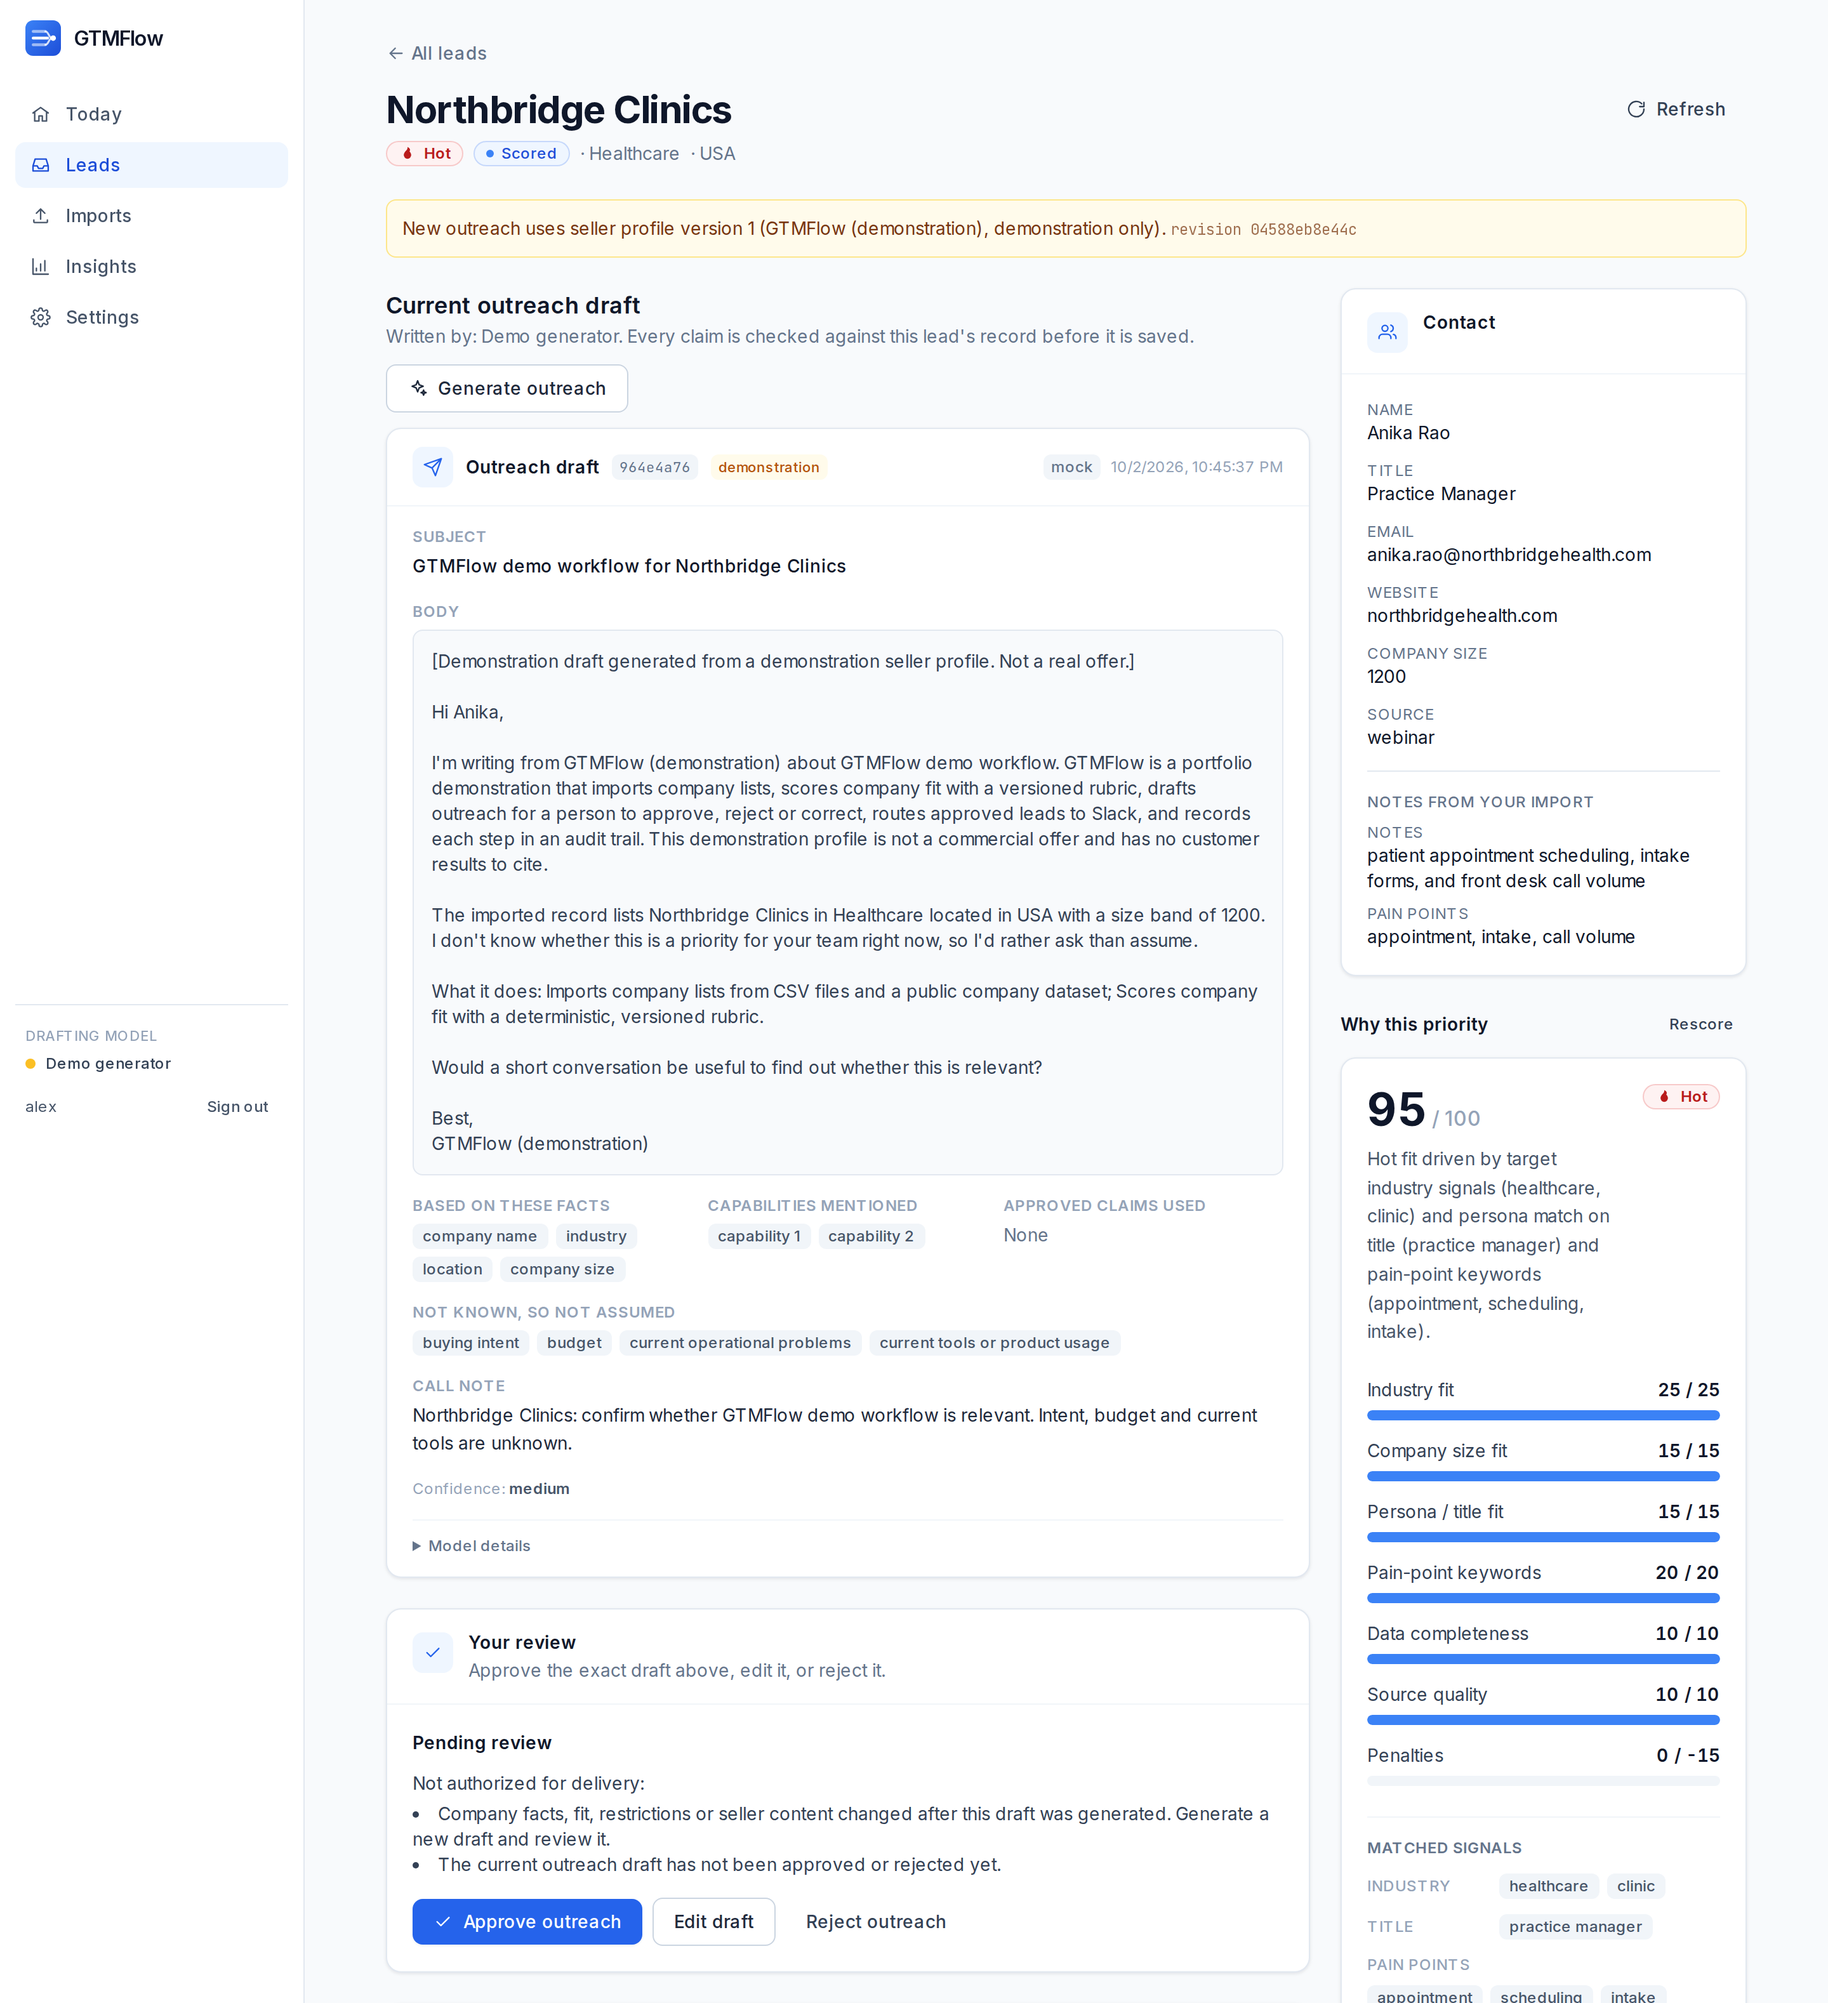
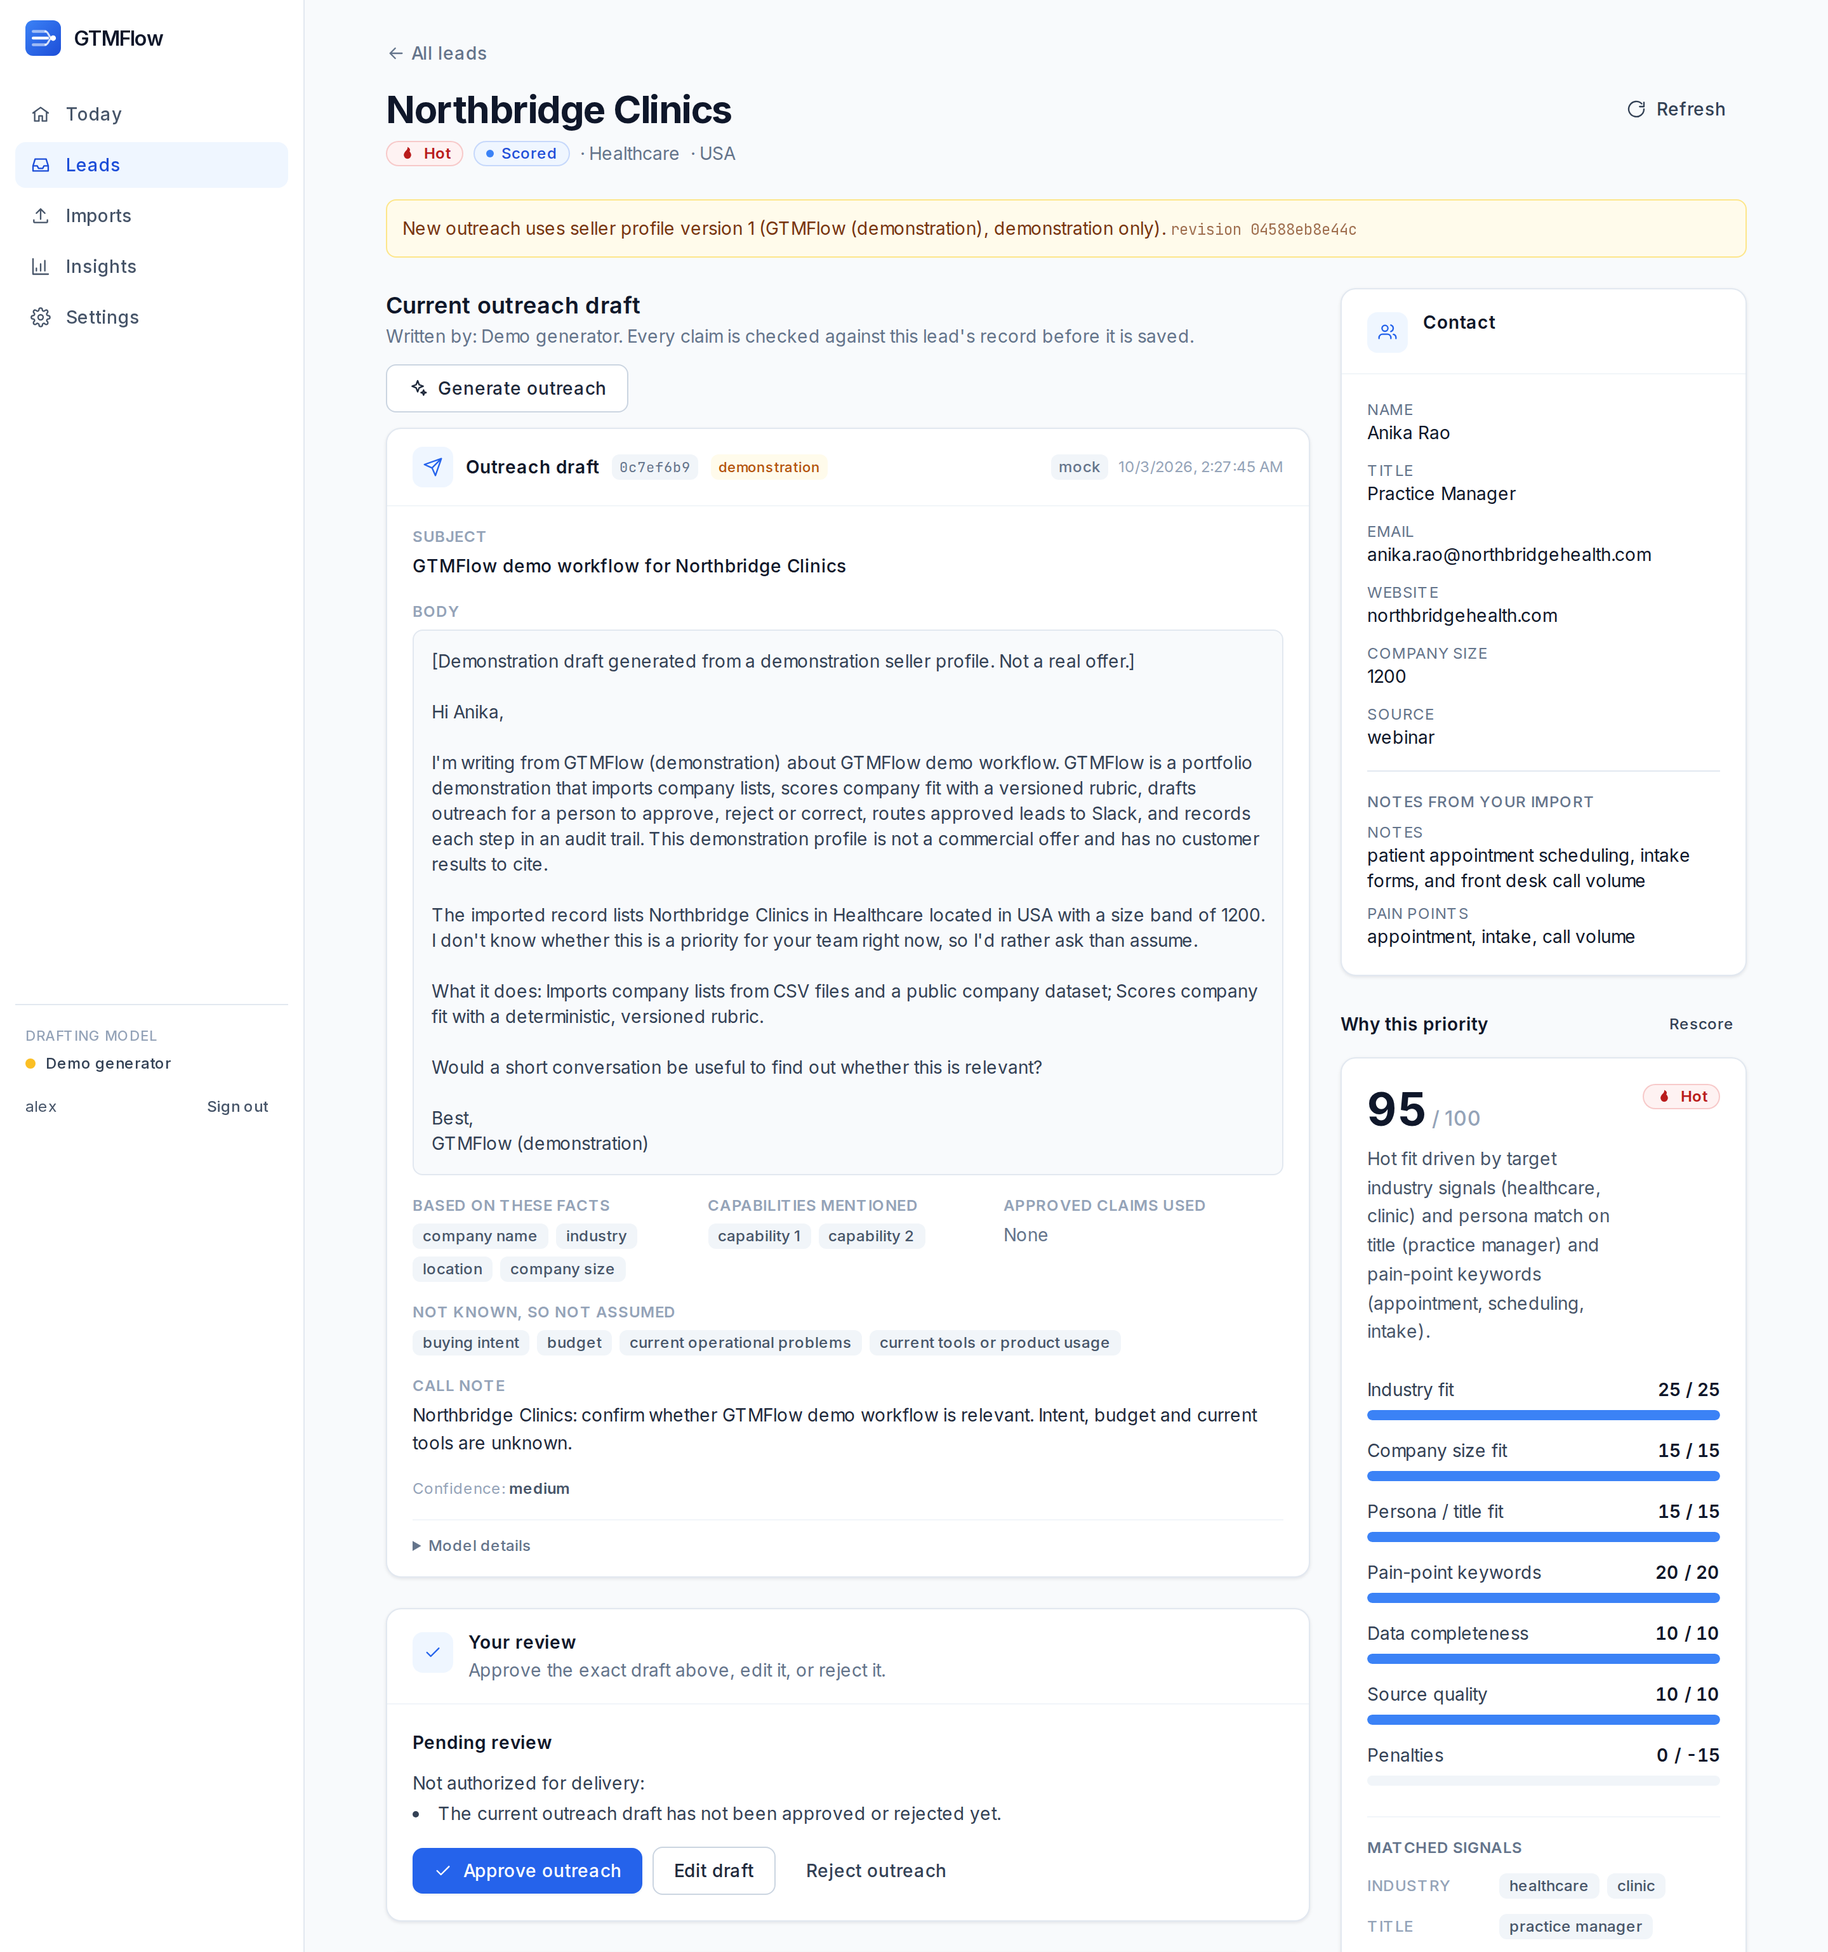
Retake README screenshots of the redesigned app; update results and engineering log

diff --git a/README.md b/README.md
@@ -31,8 +31,8 @@ PyTorch + PEFT for the model work · Slack incoming webhooks.
 until the fine-tuned model's server is connected. It is not deployed; see [Local setup](#local-setup).
 
 <p align="center">
-  <a href="docs/screenshots/home.png">
-    <img src="docs/screenshots/home.png" alt="GTMFlow home page with the headline &quot;Stop hand-sorting leads. Let GTMFlow do the first pass.&quot; and buttons to run the live demo or upload a lead list" width="100%">
+  <a href="docs/screenshots/today.png">
+    <img src="docs/screenshots/today.png" alt="Today page greeting the rep with counts of drafts to review, leads ready to send, hot leads without a draft and leads sent, a Next up list ranked Hot first, and the drafting-model status" width="100%">
   </a>
 </p>
 
@@ -400,73 +400,74 @@ Only mechanisms present in the code are listed here.
 
 ## Screenshots
 
-Captured from the running application (production build, mock mode, isolated PostgreSQL) at a
-1440 px viewport after running the built-in demo. Click any image for full resolution.
+Captured from the running application (production build, isolated PostgreSQL, Slack mocked, no model
+server connected, so drafts come from the labeled demo generator) at a 1440 px viewport. Click any
+image for full resolution.
 
-### Lead workspace: scoring
+### Today
 
-The 100-point priority score with its breakdown and matched signals, and the company-fit score,
-which reports *insufficient evidence* when a CSV lacks structured fields instead of guessing.
+What needs the rep's attention: drafts to review, approved leads ready to send, Hot leads without a
+draft, and the drafting model's status. It is shown at the top of this README.
+
+### Leads
+
+Every lead from every import, ranked Hot first, with stage tabs, search and a priority filter. A
+lead is only "Ready to send" when its approval still authorizes delivery.
 
 <p align="center">
-  <a href="docs/screenshots/lead-scoring.png">
-    <img src="docs/screenshots/lead-scoring.png" alt="Lead workspace for Cascade Modular Homes showing a 94 of 100 Hot priority score with a per-category breakdown, matched signals, and a company-fit table" width="100%">
+  <a href="docs/screenshots/leads.png">
+    <img src="docs/screenshots/leads.png" alt="Leads inbox with stage tabs and counts, a search box, a priority filter, and a table of ten companies with priority, stage, drafting model and import" width="100%">
   </a>
 </p>
 
-### Lead workspace: readiness, review and the grounded draft
+### Lead workspace: the draft and the review
 
-The approval applies to this exact draft. The draft cites record facts and seller capabilities by
-id, and lists what is not known from the data. A demonstration seller profile can never make an
-email "ready", only an internal Slack handoff.
+The draft says which model wrote it, lists the facts it is based on and what is not known, and keeps
+provenance under "Model details". The review applies to this exact draft.
 
 <p align="center">
   <a href="docs/screenshots/lead-review.png">
-    <img src="docs/screenshots/lead-review.png" alt="Readiness panel, an approved review bound to a content hash, and an outreach draft with cited fact ids, seller capability ids and stated unknowns" width="100%">
+    <img src="docs/screenshots/lead-review.png" alt="Lead workspace for Northbridge Clinics with an outreach draft, the facts it is based on, the unknowns it does not assume, and a pending review with approve, edit and reject actions beside the contact card and priority breakdown" width="100%">
   </a>
 </p>
 
-### Slack delivery
+### Sending to Slack
 
 <p align="center">
-  <a href="docs/screenshots/push-history.png">
-    <img src="docs/screenshots/push-history.png" alt="Push history showing a mock Slack delivery with the Hot lead message, attempt number and mock-success status" width="100%">
+  <a href="docs/screenshots/lead-send.png">
+    <img src="docs/screenshots/lead-send.png" alt="An approved review that applies to the exact draft, the Send to Slack card, and a push history entry showing a mock Slack delivery" width="100%">
   </a>
 </p>
 
-### Batch detail
+### Imports and an import's detail
 
 <p align="center">
-  <a href="docs/screenshots/batch-detail.png">
-    <img src="docs/screenshots/batch-detail.png" alt="Batch detail with background job controls, the company-fit summary and a table of ten leads with priority, fit, routing and readiness columns" width="100%">
+  <a href="docs/screenshots/imports.png">
+    <img src="docs/screenshots/imports.png" alt="Imports page with a CSV drop zone, an optional name, a Try with sample data card, and a list of past imports" width="100%">
   </a>
 </p>
 
-### Background jobs
-
 <p align="center">
-  <a href="docs/screenshots/background-jobs.png">
-    <img src="docs/screenshots/background-jobs.png" alt="Background jobs panel with completed summary, fit-score and legacy-score jobs, each 10 of 10" width="100%">
+  <a href="docs/screenshots/import-detail.png">
+    <img src="docs/screenshots/import-detail.png" alt="One import with rescore and send-approved-Hot-leads actions, background job controls with a completed fit-score job, and a lead table with status, score and priority" width="100%">
   </a>
 </p>
 
-### Metrics
+### Insights
 
 <p align="center">
-  <a href="docs/screenshots/metrics.png">
-    <img src="docs/screenshots/metrics.png" alt="Metrics dashboard with a mock-data banner, pipeline funnel, priority split, quality rates, estimated time saved and a mock-versus-real breakdown" width="100%">
+  <a href="docs/screenshots/insights.png">
+    <img src="docs/screenshots/insights.png" alt="Insights dashboard with a mock-data banner, pipeline funnel, priority split, quality rates, estimated time saved and a mock-versus-real breakdown" width="100%">
   </a>
 </p>
 
 ### More pages
 
-| Sign in | Upload |
+| Sign in | Email verification |
 |---|---|
-| [![Sign-in form with create-account and continue-as-guest options](docs/screenshots/login.png)](docs/screenshots/login.png) | [![CSV upload form](docs/screenshots/upload.png)](docs/screenshots/upload.png) |
-| **Batches** | **Guided demo** |
-| [![Batches list](docs/screenshots/batches.png)](docs/screenshots/batches.png) | [![One-click demo page](docs/screenshots/demo.png)](docs/screenshots/demo.png) |
-| **Email verification** | **Seller profile** |
-| [![Check-your-email step with a 6-digit code field and a resend countdown](docs/screenshots/verify-email.png)](docs/screenshots/verify-email.png) | [![Seller profile editor with an active demonstration profile](docs/screenshots/seller-profile.png)](docs/screenshots/seller-profile.png) |
+| [![Sign-in form with create-account and continue-as-guest options](docs/screenshots/login.png)](docs/screenshots/login.png) | [![Check-your-email step with a 6-digit code field and a resend countdown](docs/screenshots/verify-email.png)](docs/screenshots/verify-email.png) |
+| **Settings** | |
+| [![Settings with the drafting model status, the fine-tuned model and adapter, what you sell, and the account](docs/screenshots/settings.png)](docs/screenshots/settings.png) | |
 
 ## Testing strategy
 
@@ -481,8 +482,8 @@ email "ready", only an internal Slack handoff.
 Tests block outbound network calls. Key safety tests were mutation-checked: the safeguard was
 removed and the test had to fail.
 
-Latest verified results (2026-10-02, local): **545 backend tests on PostgreSQL** (540 passed and 5
-skipped on SQLite), **112 frontend tests**, **96 of 96 release checks**, and a clean typecheck and
+Latest verified results (2026-10-03, local): **560 backend tests on PostgreSQL** (555 passed and 5
+skipped on SQLite), **109 frontend tests**, **96 of 96 release checks**, and a clean typecheck and
 production build. The same workflows run in [CI](https://github.com/AhmedKamal-41/gtmflow-ai/actions/workflows/release.yml)
 on every push.
 

diff --git a/docs/engineering-log/README.md b/docs/engineering-log/README.md
@@ -24,3 +24,4 @@ Cross-cutting design decisions, with the reasoning behind them, are in [`decisio
 ## After Phase 12
 
 - **Self-service sign-up and guest access (2026-10-02).** Migration `0014_signup_and_guest`: sign-up confirmed by an emailed 6-digit code (hashed, 10-minute expiry, 5 attempts, 60-second resend cooldown), and per-visitor guest accounts that can change data only on a mock-only server. Both are off by default. Tests: `backend/tests/test_signup_guest.py`, `frontend/src/app/login/page.test.tsx`, and live checks in `backend/scripts/verify_release.py`.
+- **Redesign around the sales rep (2026-10-03).** A sidebar app (Today, Leads, Imports, Insights, Settings) replaces the page-per-endpoint layout; the annotation and demo pages are gone (their APIs remain). New `GET /api/inbox` derives each lead's stage from `review_states()`, the same function review and delivery use, so "Ready to send" never appears for an approval dispatch would refuse ("Draft out of date" instead). New `GET /api/ai/status` and the opt-in `LORA_FALLBACK_TO_MOCK` make the fine-tuned model the drafting model with an honestly labeled demo-generator fallback. Guests may change data only on a guest-safe server (no Slack webhook, no paid per-request AI API). Tests: `backend/tests/test_workspace.py`, `frontend/src/app/workspace.test.tsx`.
